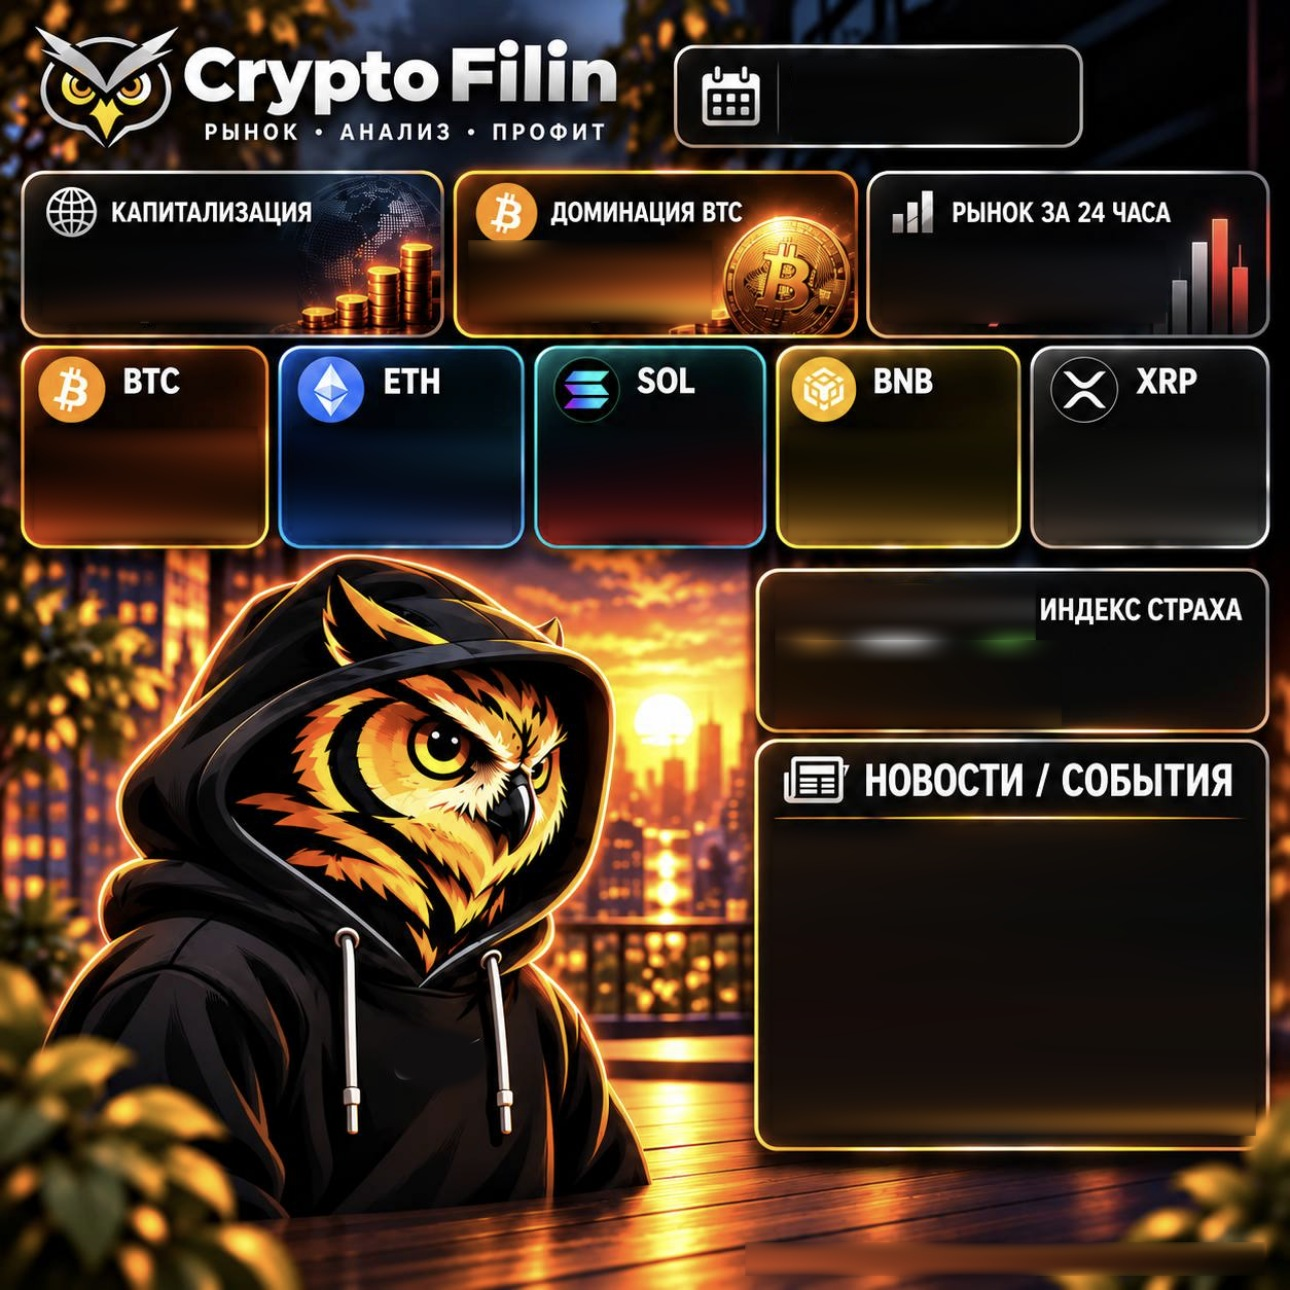
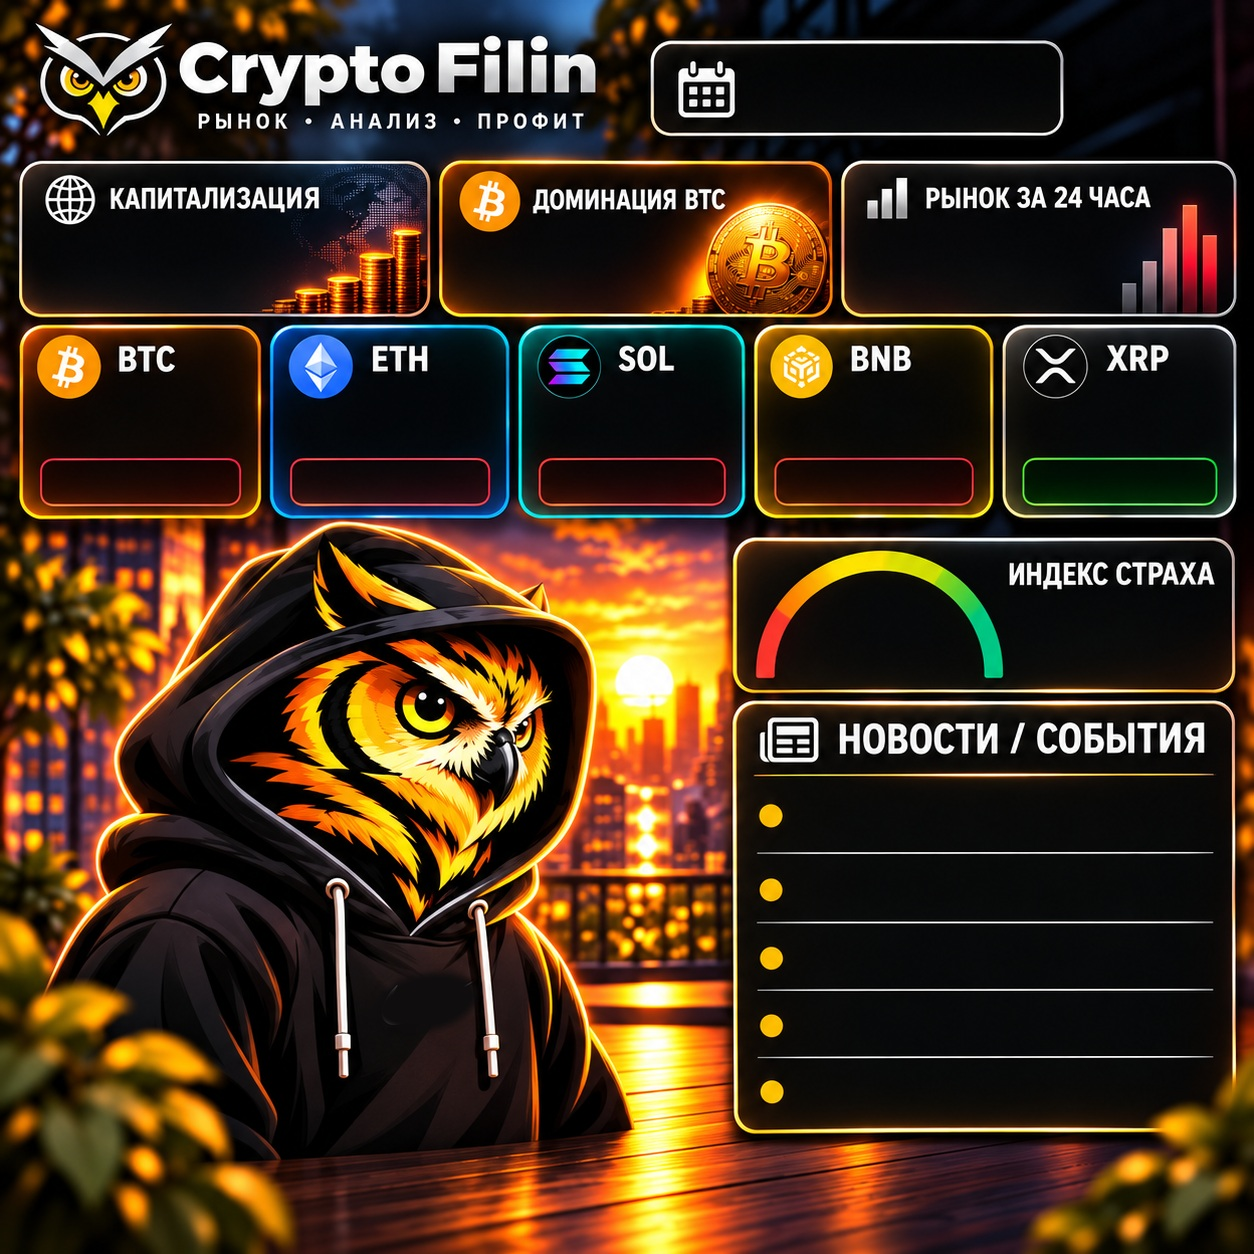
Owl card on the user's clean template (no baked numbers)
Claude-Session: https://claude.ai/code/session_01JXVa6sofLwqYbF7XtcQbSw

diff --git a/src/templates.js b/src/templates.js
@@ -114,55 +114,54 @@ const ICON = {
 const CC = { BTC: ['#F7931A', '₿'], ETH: ['#627EEA', 'Ξ'], SOL: ['#14F1C5', '≡'], BNB: ['#F3BA2F', '◆'], XRP: ['#E9E9E9', '✕'] };
 function dailyOwl(d, slot = 'УТРО') {
   const k = kyivParts();
-  const evening = /ВЕЧЕР/i.test(slot);
   const dd = String(k.day).padStart(2, '0');
   const sgn = (v, dec = 2) => `${v >= 0 ? '+' : '−'}${grp(Math.abs(v), dec)}%`;
-  const X = [[34, 258], [292, 512], [548, 754], [788, 1008], [1044, 1258]];
-  const tiles = d.coins.slice(0, 5).map((c, i) => { const up = c.chg >= 0; const [a, b] = X[i];
-    return `<div class="cpz" style="left:${a}px;width:${b - a}px">${price(c.price)}</div><div class="pl ${up ? 'u' : 'd'}" style="left:${a}px;width:${b - a}px"><span>${up ? '▲' : '▼'} ${sgn(c.chg)}</span></div>`; }).join('');
+  const T = [[20, 260], [270, 508], [520, 744], [755, 992], [1003, 1236]];
+  const PL = [[40, 240], [290, 490], [538, 725], [775, 973], [1022, 1217]];
+  const coins = d.coins.slice(0, 5).map((c, i) => { const up = c.chg >= 0;
+    return `<div class="cp" style="left:${T[i][0]}px;width:${T[i][1] - T[i][0]}px">${price(c.price)}</div>
+<div class="pl ${up ? 'u' : 'd'}" style="left:${PL[i][0]}px;width:${PL[i][1] - PL[i][0]}px">${up ? '▲' : '▼'} ${sgn(c.chg)}</div>`; }).join('');
   const fl = v => v < 25 ? 'СИЛЬНЫЙ СТРАХ' : v < 45 ? 'СТРАХ' : v <= 55 ? 'НЕЙТРАЛЬНО' : v <= 75 ? 'ЖАДНОСТЬ' : 'СИЛЬНАЯ ЖАДНОСТЬ';
-  const fcol = d.fng.now < 45 ? '#FF4D4F' : d.fng.now > 55 ? '#2FE07A' : '#E8E2D6';
-  // gauge arc (red → yellow → green) with knob
-  const cx = 905, cy = 716, R = 124, a = v => Math.PI * (1 - v / 100), P = v => [cx + R * Math.cos(a(v)), cy - R * Math.sin(a(v))];
-  const [kx, ky] = P(Math.max(2, Math.min(98, d.fng.now)));
-  const ev = (d.events || []).slice(0, 3).map(e => `<li><span>${d.eventsTomorrow ? 'Завтра' : 'Сегодня'} ${e.time} Киев — ${esc(e.title)}</span></li>`);
-  const nw = (d.news || []).slice(0, evening ? 3 : 2).map(t => `<li><span>${esc(t)}</span></li>`);
-  const list = [...nw, ...ev].slice(0, 4);
-  if (!ev.length) list.push(`<li><span>Важной статистики США ${d.eventsTomorrow ? 'завтра' : 'сегодня'} нет</span></li>`);
+  const fcol = d.fng.now < 45 ? '#FF4D4F' : d.fng.now > 55 ? '#2FE07A' : '#F3F1EC';
+  const cx = 879, cy = 675, R = 121, ang = Math.PI * (1 - Math.max(2, Math.min(98, d.fng.now)) / 100);
+  const kx = cx + R * Math.cos(ang), ky = cy - R * Math.sin(ang);
+  const ev = (d.events || []).slice(0, 3).map(e => `${d.eventsTomorrow ? 'Завтра' : 'Сегодня'} ${e.time} Киев — ${e.title}`);
+  const news = d.news || [];
+  const rows = [...news.slice(0, 2), ...ev, ...news.slice(2)].slice(0, 5);
+  if (!ev.length && rows.length < 5) rows.push(`Важной статистики США ${d.eventsTomorrow ? 'завтра' : 'сегодня'} нет`);
+  const BY = [815, 888, 958, 1025, 1092];
+  const list = BY.map((y, i) => rows[i] ? `<div class="nr" style="top:${y - 36}px">${esc(rows[i])}</div>` : `<div class="hide" style="top:${y - 14}px"></div>`).join('');
   const capUp = d.capChg >= 0;
   return doc(`<div id="card" class="ow">
  <div class="dt"><b>${dd} ${MON[k.mon]} ${k.year}</b><span>${DOW[k.wd]} · ${slot}</span></div>
- <div class="kv" style="left:48px">${big(d.cap).replace(' трлн', 'T').replace(' млрд', 'B')}</div>
- <div class="kv" style="left:478px">${grp(d.dom, 1)}%</div>
- <div class="kv ${capUp ? 'up' : 'dn'}" style="left:890px">${sgn(d.capChg)}</div>
- ${tiles}
- <svg class="gz" width="1290" height="1290"><defs><linearGradient id="gg" x1="0" x2="1"><stop offset="0" stop-color="#E53935"/><stop offset=".35" stop-color="#F57C00"/><stop offset=".55" stop-color="#FBC02D"/><stop offset="1" stop-color="#43A047"/></linearGradient></defs>
-  <path d="M${cx - R} ${cy} A${R} ${R} 0 0 1 ${cx + R} ${cy}" stroke="url(#gg)" stroke-width="18" fill="none" stroke-linecap="round"/>
-  <circle cx="${kx}" cy="${ky}" r="13" fill="#3a3a3a" stroke="#F3F1EC" stroke-width="4"/></svg>
+ <div class="kv" style="left:46px">${big(d.cap).replace(' трлн', 'T').replace(' млрд', 'B')}</div>
+ <div class="kv" style="left:466px">${grp(d.dom, 1)}%</div>
+ <div class="kv ${capUp ? 'up' : 'dn'}" style="left:866px">${sgn(d.capChg)}</div>
+ ${coins}
+ <svg class="kn" width="1254" height="1254"><circle cx="${kx}" cy="${ky}" r="14" fill="#2b2b2b" stroke="#F3F1EC" stroke-width="4"/></svg>
  <div class="gv"><b>${d.fng.now}</b><small>/100</small><i style="color:${fcol}">${fl(d.fng.now)}</i></div>
- <ul class="nl">${list.join('')}</ul>
- <div class="src">Данные: CoinGecko, ${dd}.${String(k.mon + 1).padStart(2, '0')}.${k.year}, ${String(k.hour).padStart(2, '0')}:00 Киев <i>•</i> @Filin1Radar</div>
+ ${list}
+ <div class="src">Данные: CoinGecko · ${dd}.${String(k.mon + 1).padStart(2, '0')}.${k.year}, ${String(k.hour).padStart(2, '0')}:00 Киев <i>•</i> @Filin1Radar</div>
 </div>`, `
+@font-face{font-family:RC;src:url(${A('fonts/RC-cyr-700.woff2')});font-weight:700;unicode-range:U+0400-04FF}
+@font-face{font-family:RC;src:url(${A('fonts/RC-lat-700.woff2')});font-weight:700}
 @font-face{font-family:RC;src:url(${A('fonts/RC-cyr-800.woff2')});font-weight:800;unicode-range:U+0400-04FF}
 @font-face{font-family:RC;src:url(${A('fonts/RC-lat-800.woff2')});font-weight:800}
 @font-face{font-family:RC;src:url(${A('fonts/RC-cyr-900.woff2')});font-weight:900;unicode-range:U+0400-04FF}
 @font-face{font-family:RC;src:url(${A('fonts/RC-lat-900.woff2')});font-weight:900}
-@font-face{font-family:RC;src:url(${A('fonts/RC-cyr-700.woff2')});font-weight:700;unicode-range:U+0400-04FF}
-@font-face{font-family:RC;src:url(${A('fonts/RC-lat-700.woff2')});font-weight:700}
-.ow{position:relative;width:1290px;height:1290px;background:url(${A('daily-owl-base.jpg')}) 0 0/1290px 1290px;font-family:RC,sans-serif;color:#fff}
+.ow{position:relative;width:1254px;height:1254px;background:url(${A('daily-owl-base.jpg')}) 0 0/1254px 1254px;font-family:RC,sans-serif;color:#fff}
 .ow>*{position:absolute}
-.dt{left:796px;top:60px}.dt b{display:block;font-size:40px;font-weight:800;line-height:1.05}.dt span{display:block;font-size:38px;font-weight:900;color:#F7A600;line-height:1.05}
-.kv{top:236px;font-size:88px;font-weight:900;letter-spacing:-1px;line-height:1;text-shadow:0 3px 10px rgba(0,0,0,.6);white-space:nowrap}.kv.dn{color:#FF3B30}.kv.up{color:#2FE07A}
-.cpz{top:424px;text-align:center;font-size:50px;font-weight:900;letter-spacing:-.5px;white-space:nowrap;text-shadow:0 2px 8px rgba(0,0,0,.6)}
-.pl{top:486px;text-align:center}.pl span{display:inline-block;font-size:34px;font-weight:900;padding:2px 18px;border-radius:10px;border:2.5px solid}
-.pl.d span{color:#FF4D4F;border-color:#C62828;background:rgba(110,12,12,.75)}.pl.u span{color:#3DF08A;border-color:#1E9E52;background:rgba(12,90,40,.75)}
-.gz{left:0;top:0}
-.gv{left:${cx - 100}px;width:200px;top:${cy - 104}px;text-align:center}.gv b{font-size:58px;font-weight:900;line-height:1}.gv small{font-size:28px;font-weight:800;color:#ddd}
-.gv i{display:block;font-style:normal;font-size:22px;margin-top:4px;font-weight:900;line-height:1.1}
-.nl{left:780px;top:828px;width:470px;list-style:none}
-.nl li{position:relative;padding:9px 0 9px 44px;border-bottom:1.5px solid rgba(255,255,255,.14);color:#F3F1EC}.nl li span{font-size:25px;font-weight:700;line-height:1.16;display:-webkit-box;-webkit-line-clamp:2;-webkit-box-orient:vertical;overflow:hidden}
-.nl li:last-child{border:0}.nl li:before{content:'';position:absolute;left:8px;top:19px;width:20px;height:20px;border-radius:50%;background:#F7A600}
-.src{right:30px;top:1244px;font-size:22px;font-weight:700;color:#E8E2D6;text-shadow:0 1px 4px #000}.src i{color:#F7A600;font-style:normal;margin:0 6px}`);
+.dt{left:768px;top:50px}.dt b{display:block;font-size:40px;font-weight:800;line-height:1.05}.dt span{display:block;font-size:37px;font-weight:900;color:#F7A600;line-height:1.08}
+.kv{top:230px;font-size:80px;font-weight:900;letter-spacing:-1px;line-height:1;text-shadow:0 3px 10px rgba(0,0,0,.65);white-space:nowrap}.kv.dn{color:#FF3B30}.kv.up{color:#2FE07A}
+.cp{top:394px;text-align:center;font-size:50px;font-weight:900;letter-spacing:-.5px;white-space:nowrap;text-shadow:0 2px 8px rgba(0,0,0,.6)}
+.pl{top:458px;height:47px;line-height:43px;text-align:center;font-size:32px;font-weight:900;border-radius:9px;border:2.5px solid;box-sizing:border-box}
+.pl.d{color:#FF4D4F;border-color:#D32F2F;background:#3a0b0d}.pl.u{color:#3DF08A;border-color:#22A55A;background:#0b3a1d}
+.kn{left:0;top:0}
+.gv{left:${cx - 100}px;width:200px;top:${cy - 92}px;text-align:center}.gv b{font-size:58px;font-weight:900;line-height:1}.gv small{font-size:26px;font-weight:800;color:#ddd}
+.gv i{display:block;font-style:normal;font-size:23px;font-weight:900;margin-top:4px}
+.nr{left:797px;width:420px;height:72px;display:flex;align-items:center;font-size:24px;font-weight:700;line-height:1.14;color:#F3F1EC}
+.hide{left:757px;width:30px;height:30px;border-radius:50%;background:#0c0c0e}
+.src{right:24px;top:1216px;font-size:20px;font-weight:700;color:#E8E2D6;text-shadow:0 1px 4px #000,0 0 8px #000}.src i{color:#F7A600;font-style:normal;margin:0 6px}`);
 }
 
 // morning: illustrated owl card; evening: classic dark card (alternating looks)

diff --git a/src/data.js b/src/data.js
@@ -75,7 +75,7 @@ async function daily(slot) {
     getJSON(`${CG}/coins/markets?vs_currency=usd&order=market_cap_desc&per_page=100&page=1&sparkline=true`),
     getJSON('https://api.alternative.me/fng/?limit=31'),
     Promise.all([getJSON('https://nfs.faireconomy.media/ff_calendar_thisweek.json').catch(() => []), evening ? getJSON('https://nfs.faireconomy.media/ff_calendar_nextweek.json').catch(() => []) : []]).then(([a, b]) => [...(a || []), ...(b || [])]),
-    channelHeadlines(evening ? 12 : 14, 3),
+    channelHeadlines(evening ? 12 : 14, 5),
   ]);
   const g = glob.data;
   // 7d market-cap & dominance curves approximated from top-100 sparklines (price * circulating supply)
